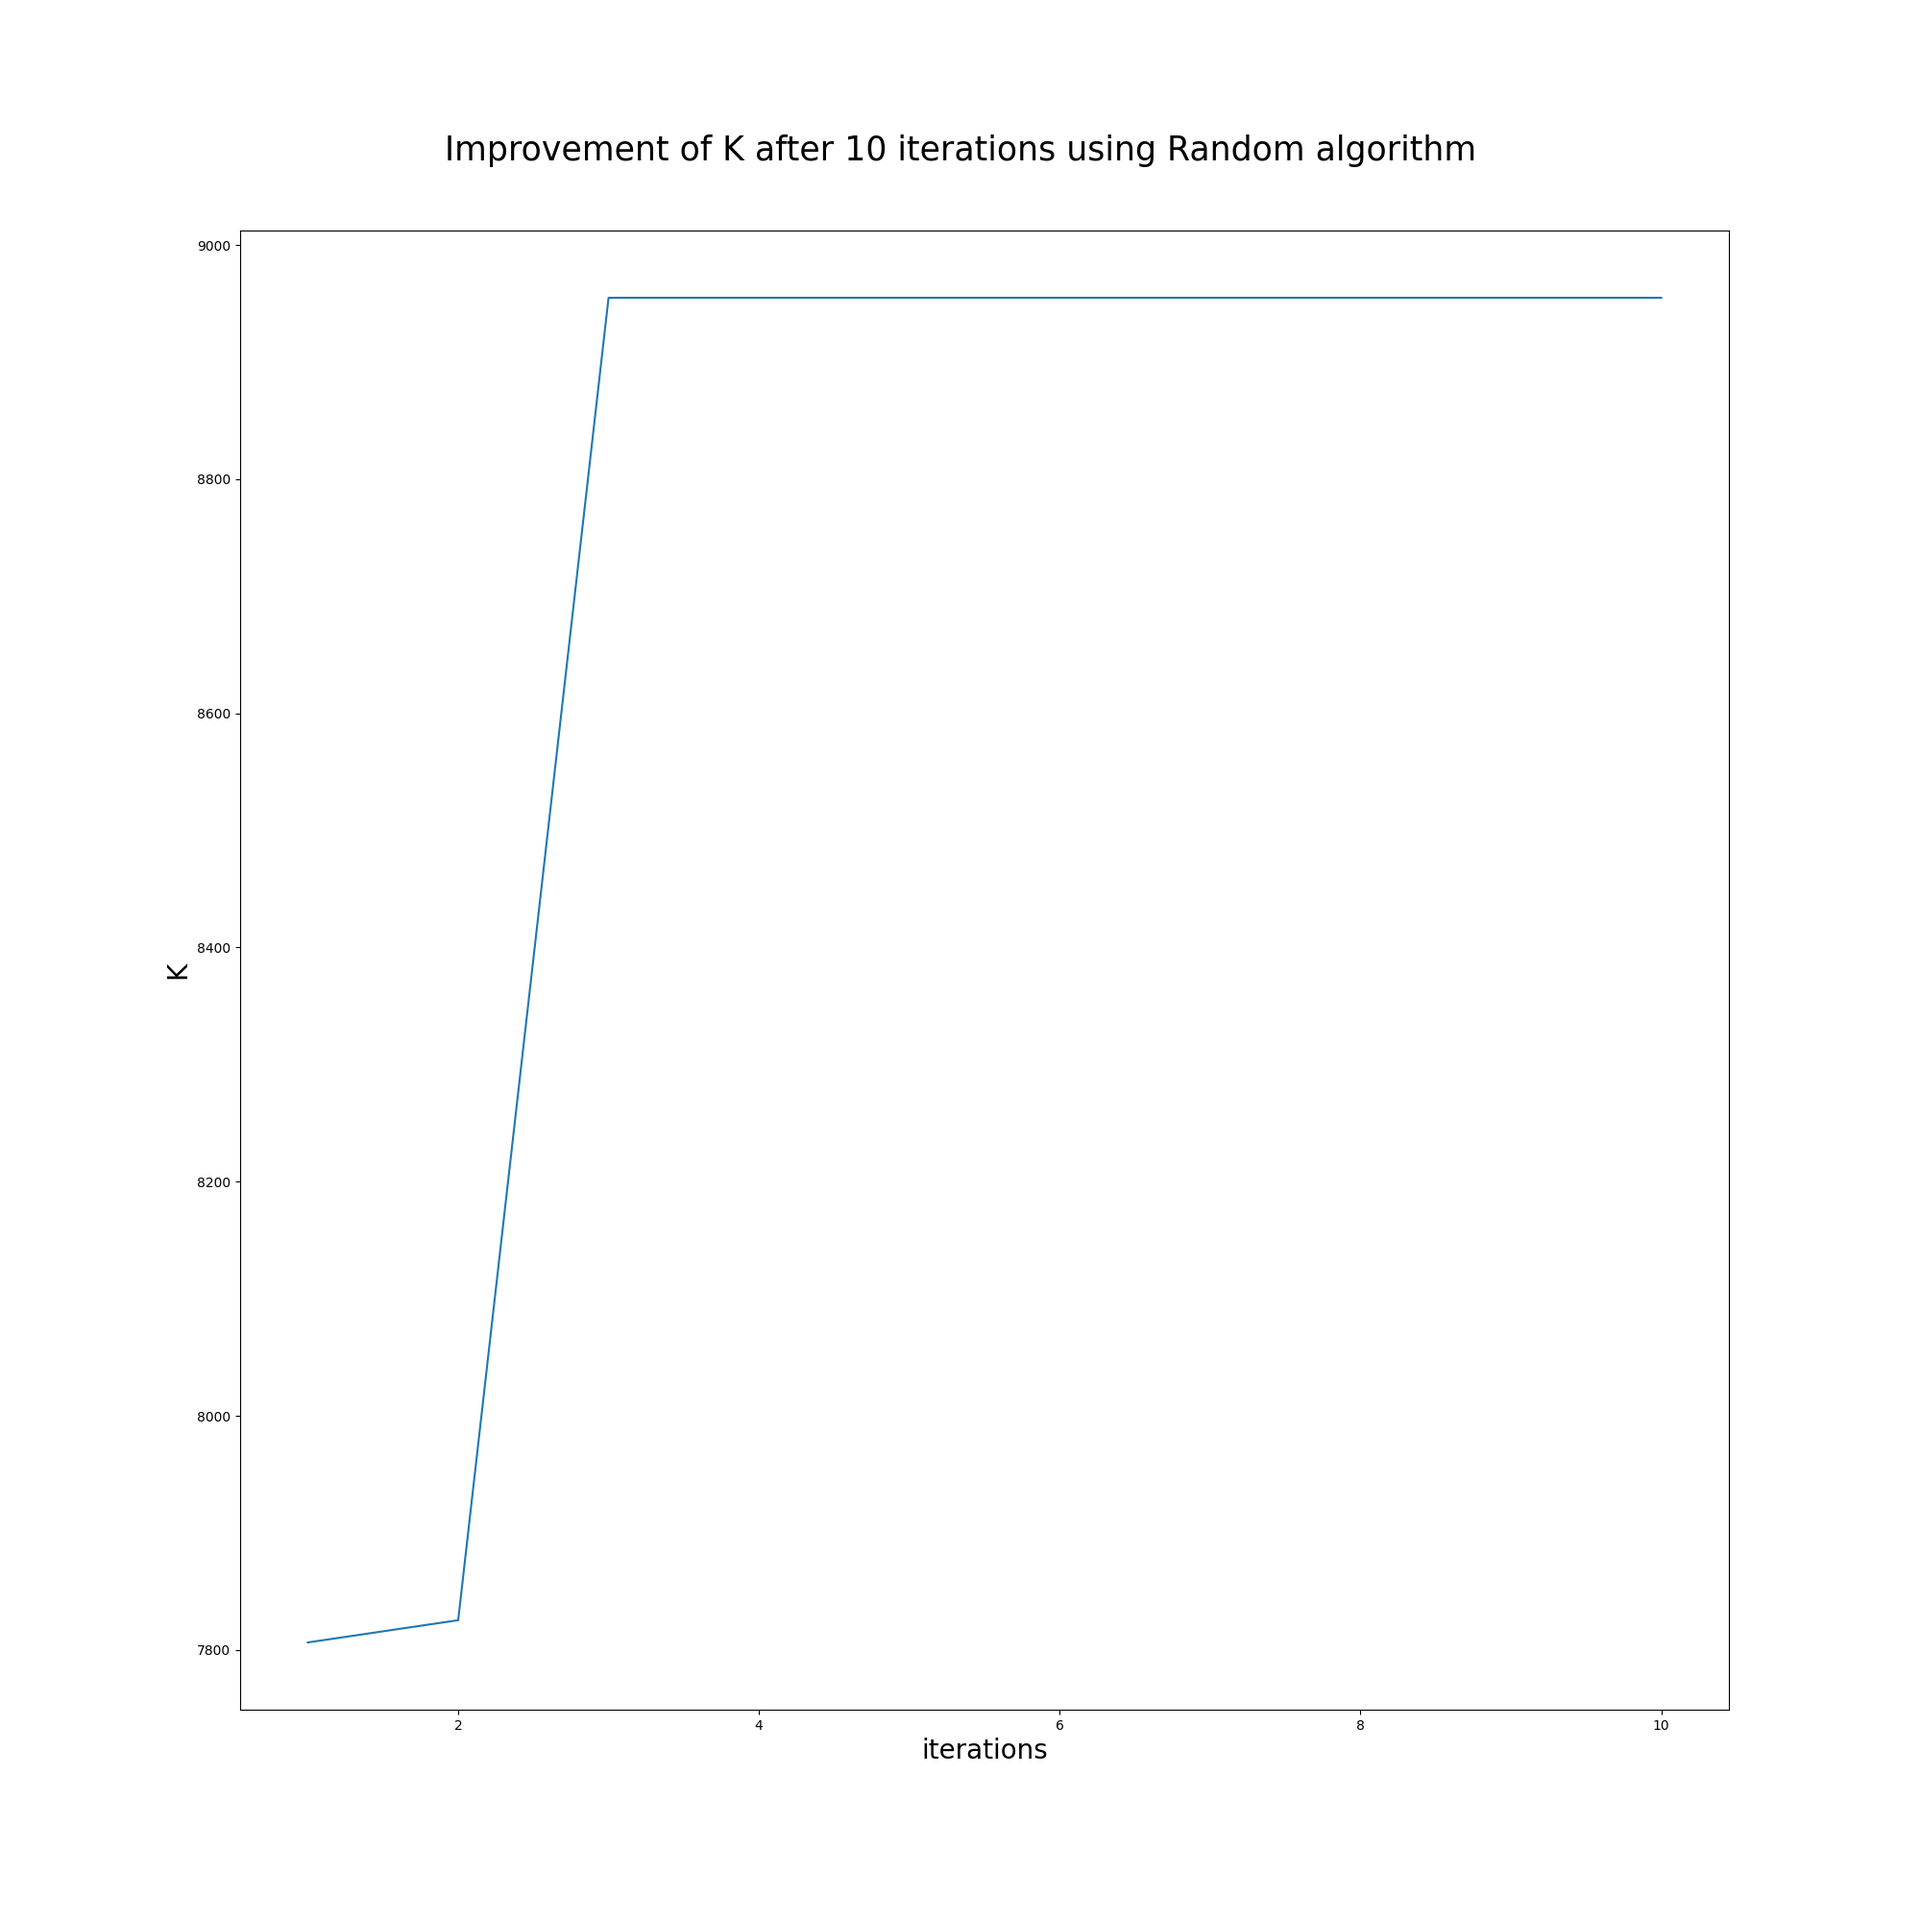
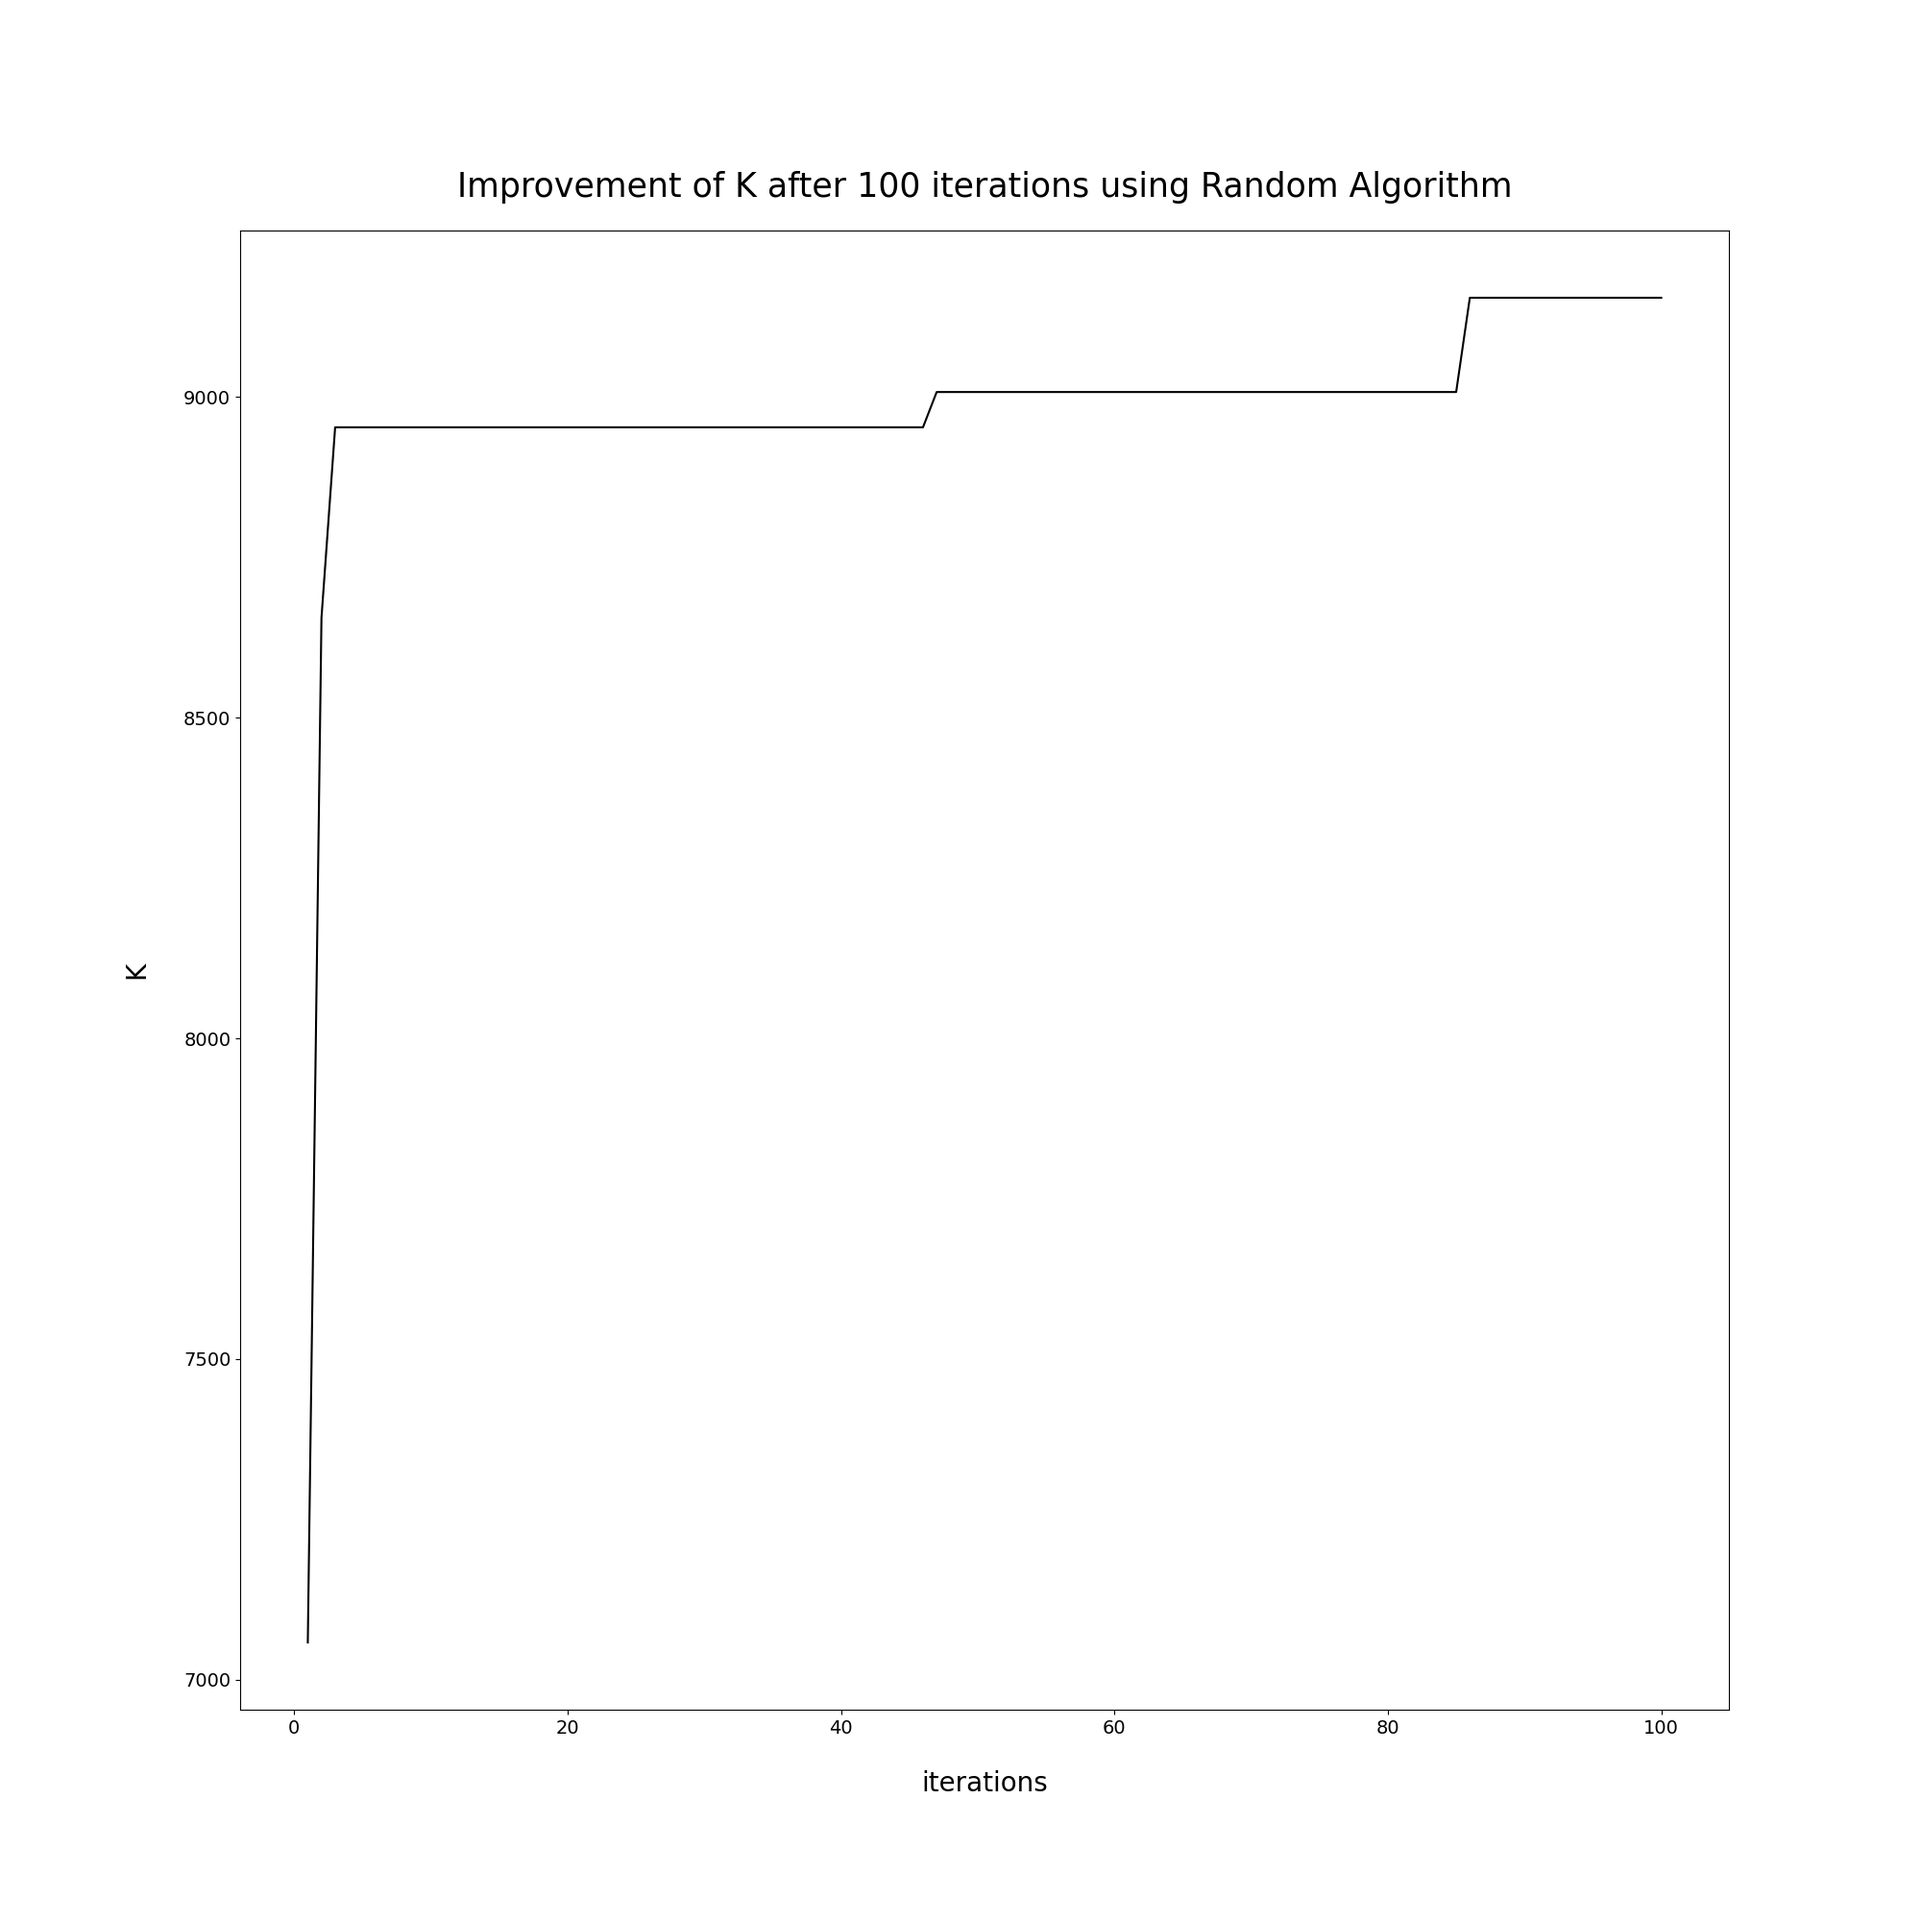
changes temperatuur hillclimber

Changed region(s): [[0.248, 0.062, 0.775, 0.124], [0.465, 0.899, 0.558, 0.93]]

diff --git a/code/algorithms/hillclimber.py b/code/algorithms/hillclimber.py
@@ -15,7 +15,7 @@ class Hillclimber:
     Hillclimber class that ..... (deletes Traject in Lijnvoering with lowest K)
     """
 
-    def __init__(self, graph, prefer_unused_connection, save_output, alg_choice, remove_traject, iterations, start_iterations, sim_anneal, lin_or_exp):
+    def __init__(self, graph, prefer_unused_connection, save_output, alg_choice, remove_traject, iterations, start_iterations, sim_anneal, lin_or_exp, restart):
         self.graph = copy.deepcopy(graph)
         self.iterations = iterations
         self.prefer_unused_connection = prefer_unused_connection
@@ -23,6 +23,7 @@ class Hillclimber:
         self.save_output = save_output
         self.alg_choice = alg_choice
         self.start_iterations = start_iterations
+        self.restart = restart
         self.all_K = []
         self.all_opt_K = dict()
         if sim_anneal.upper() == "Y" or sim_anneal.upper() == "YES":
@@ -155,8 +156,11 @@ class Hillclimber:
             sys.exit("Algorithm not (yet) implemented")
 
         # Determine if new solution needs to be accepted
-        if float(temperature) != 0.0:
-            acceptation_probability = 2 ** (float(new_graph.K - old_graph.K) / float(temperature))
+        print(temperature)
+        if float(temperature) > 0.0001:
+            print(float(new_graph.K - old_graph.K))
+            print(i)
+            acceptation_probability = Decimal(2 ** (Decimal(new_graph.K - old_graph.K) / Decimal(temperature)))
         else: 
             acceptation_probability = 0
         random_probability = random.random()
@@ -177,18 +181,21 @@ class Hillclimber:
         """
         print('\nloading hillclimber constructed lijnvoering...\n')
         
+
+        # save all k and optimal K
+        all_K = []
+        all_opt_K = dict() 
+        all_restart_K = dict()
+
         # generate valid start state
         if self.alg_choice.upper() == "R" or self.alg_choice.upper() == "RANDOM":
             current_state = self.random_start_state()
         elif self.alg_choice.upper() == "G" or self.alg_choice.upper() == "GREEDY":
             current_state = self.greedy_start_state()
-
-        # save all k and optimal K
-        all_K = []
-        all_opt_K = dict() 
     	
         # for i iterations:
         i = 0
+        nrepeat = 0
         while i < self.iterations:
             i += 1
 
@@ -247,14 +254,33 @@ class Hillclimber:
                 else:
                     print("current stated is not changed")
             
+            # check whether current state changed
+            if self.restart != False:
+                if current_state.lijnvoering != new_graph.lijnvoering:
+                    nrepeat += 1
+                # restart
+                if nrepeat > self.restart:
+                    all_restart_K[current_state.K] = current_state
+                    # generate valid start state
+                    if self.alg_choice.upper() == "R" or self.alg_choice.upper() == "RANDOM":
+                        current_state = self.random_start_state()
+                    elif self.alg_choice.upper() == "G" or self.alg_choice.upper() == "GREEDY":
+                        current_state = self.greedy_start_state()
+                    nrepeat = 0
+
             # steekproef variables
             all_K.append(new_graph.K)
 
             # add the current optimal K to a dictionary with the solution number as key
             all_opt_K[i] = current_state.K
 
-        # Add optimal graph to Hillclimber object
-        self.graph = current_state
+        if self.restart != False:
+            max_key = max(all_restart_K, key=int)
+            self.graph = all_restart_K[max_key]
+
+        else:
+            # Add optimal graph to Hillclimber object
+            self.graph = current_state
         self.all_K = all_K
         self.all_opt_K = all_opt_K
 

diff --git a/code/visualisation/visualise.py b/code/visualisation/visualise.py
@@ -352,25 +352,14 @@ def visualise_opt_K_improvement(all_opt_K, algorithm_name, start_alg = None, sta
     """
 
     fig = plt.figure(figsize=(20,20))
-    plt.plot(all_opt_K.keys(), all_opt_K.values())
-    plt.xlabel('iterations', fontsize = 20)
-    plt.ylabel('K', fontsize = 20)
-    
-    if algorithm_name == 'Hillclimber':
-        if start_alg.upper() == "R":
-            start_alg = "Random"
-        else:
-            start_alg = "Greedy"
-        
-        if random_or_K.upper() == "R":
-            random_or_K = "Random Traject"
-        else:
-            random_or_K = "Traject with lowest K"
-        fig.suptitle(f"Improvement of K after {len(all_opt_K.keys())} iterations using {algorithm_name} algorithm \n \
-        start state generated by {start_alg} (n = {start_it}) and {random_or_K} removed", fontsize = 25, y = 0.93)
-    else:
-        fig.suptitle(f"Improvement of K after {len(all_opt_K.keys())} iterations using {algorithm_name} algorithm", fontsize = 25, y = 0.93)
-    
+    plt.plot(all_opt_K.keys(), all_opt_K.values(), color = 'black')
+    plt.xlabel('iterations', fontsize = 20, labelpad=25)
+    plt.ylabel('K', fontsize = 20, labelpad=25)
+    plt.xticks(fontsize=14)
+    plt.yticks(fontsize=14)
+   
+    plt.title(f"Improvement of K after {len(all_opt_K.keys())} iterations using {algorithm_name} Algorithm", fontsize = 25, pad=25)
+
     fig.savefig(f"plots/Opt_K_Improvement_{algorithm_name}")
 
 

diff --git a/main.py b/main.py
@@ -155,8 +155,13 @@ def main():
                 lin_or_exp = input("Would you like to apply linear (return l) or exponential (return e) formula?: ")
             else:
                 lin_or_exp = None
+            restart = input("Would you like to restart if state has not changed after x iterations? yes (return number of iterations) or no (return no): ")
+            if restart.upper() == "NO":
+                restart = False
+            else:
+                restart = int(restart)
 
-            hillclimber = hc.Hillclimber(railway_map, prefer_unused_connection, save_output, alg_choice, remove_traject, int(iterations), int(start_iterations), sim_anneal, lin_or_exp)
+            hillclimber = hc.Hillclimber(railway_map, prefer_unused_connection, save_output, alg_choice, remove_traject, int(iterations), int(start_iterations), sim_anneal, lin_or_exp, restart)
             hillclimber.run()
             final_graph = hillclimber.graph
 

diff --git a/code/classes/graph.py b/code/classes/graph.py
@@ -24,9 +24,6 @@ class Graph():
         self.K = 0
     
 
-    def __eq__(self, other):
-        return self.age == other.age
-
     def load_stations(self, source_map):
         """
         Load all the stations into the graph.
